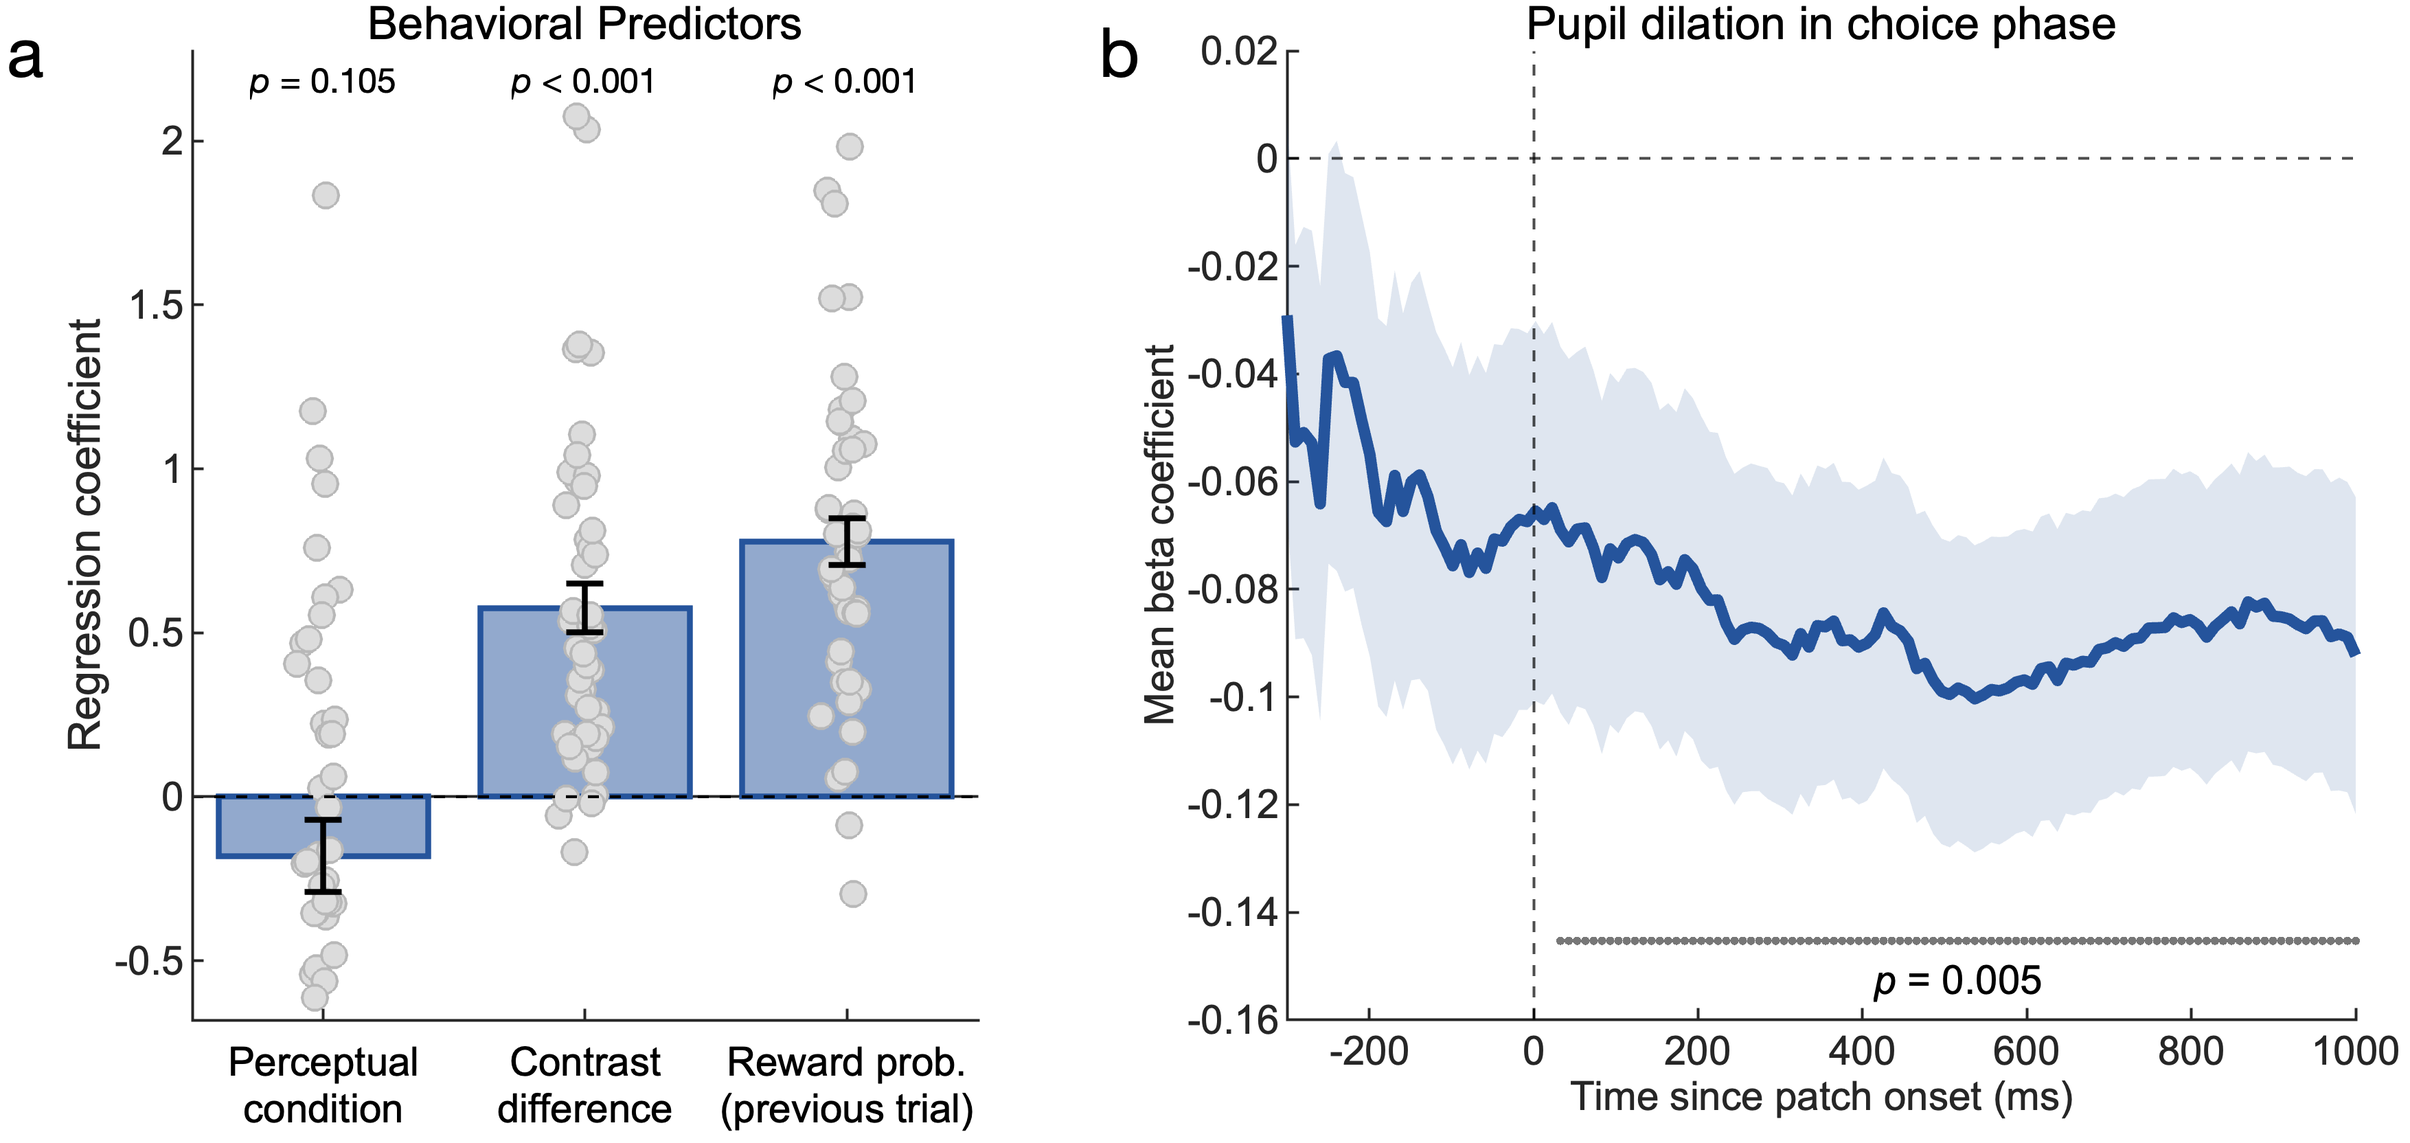
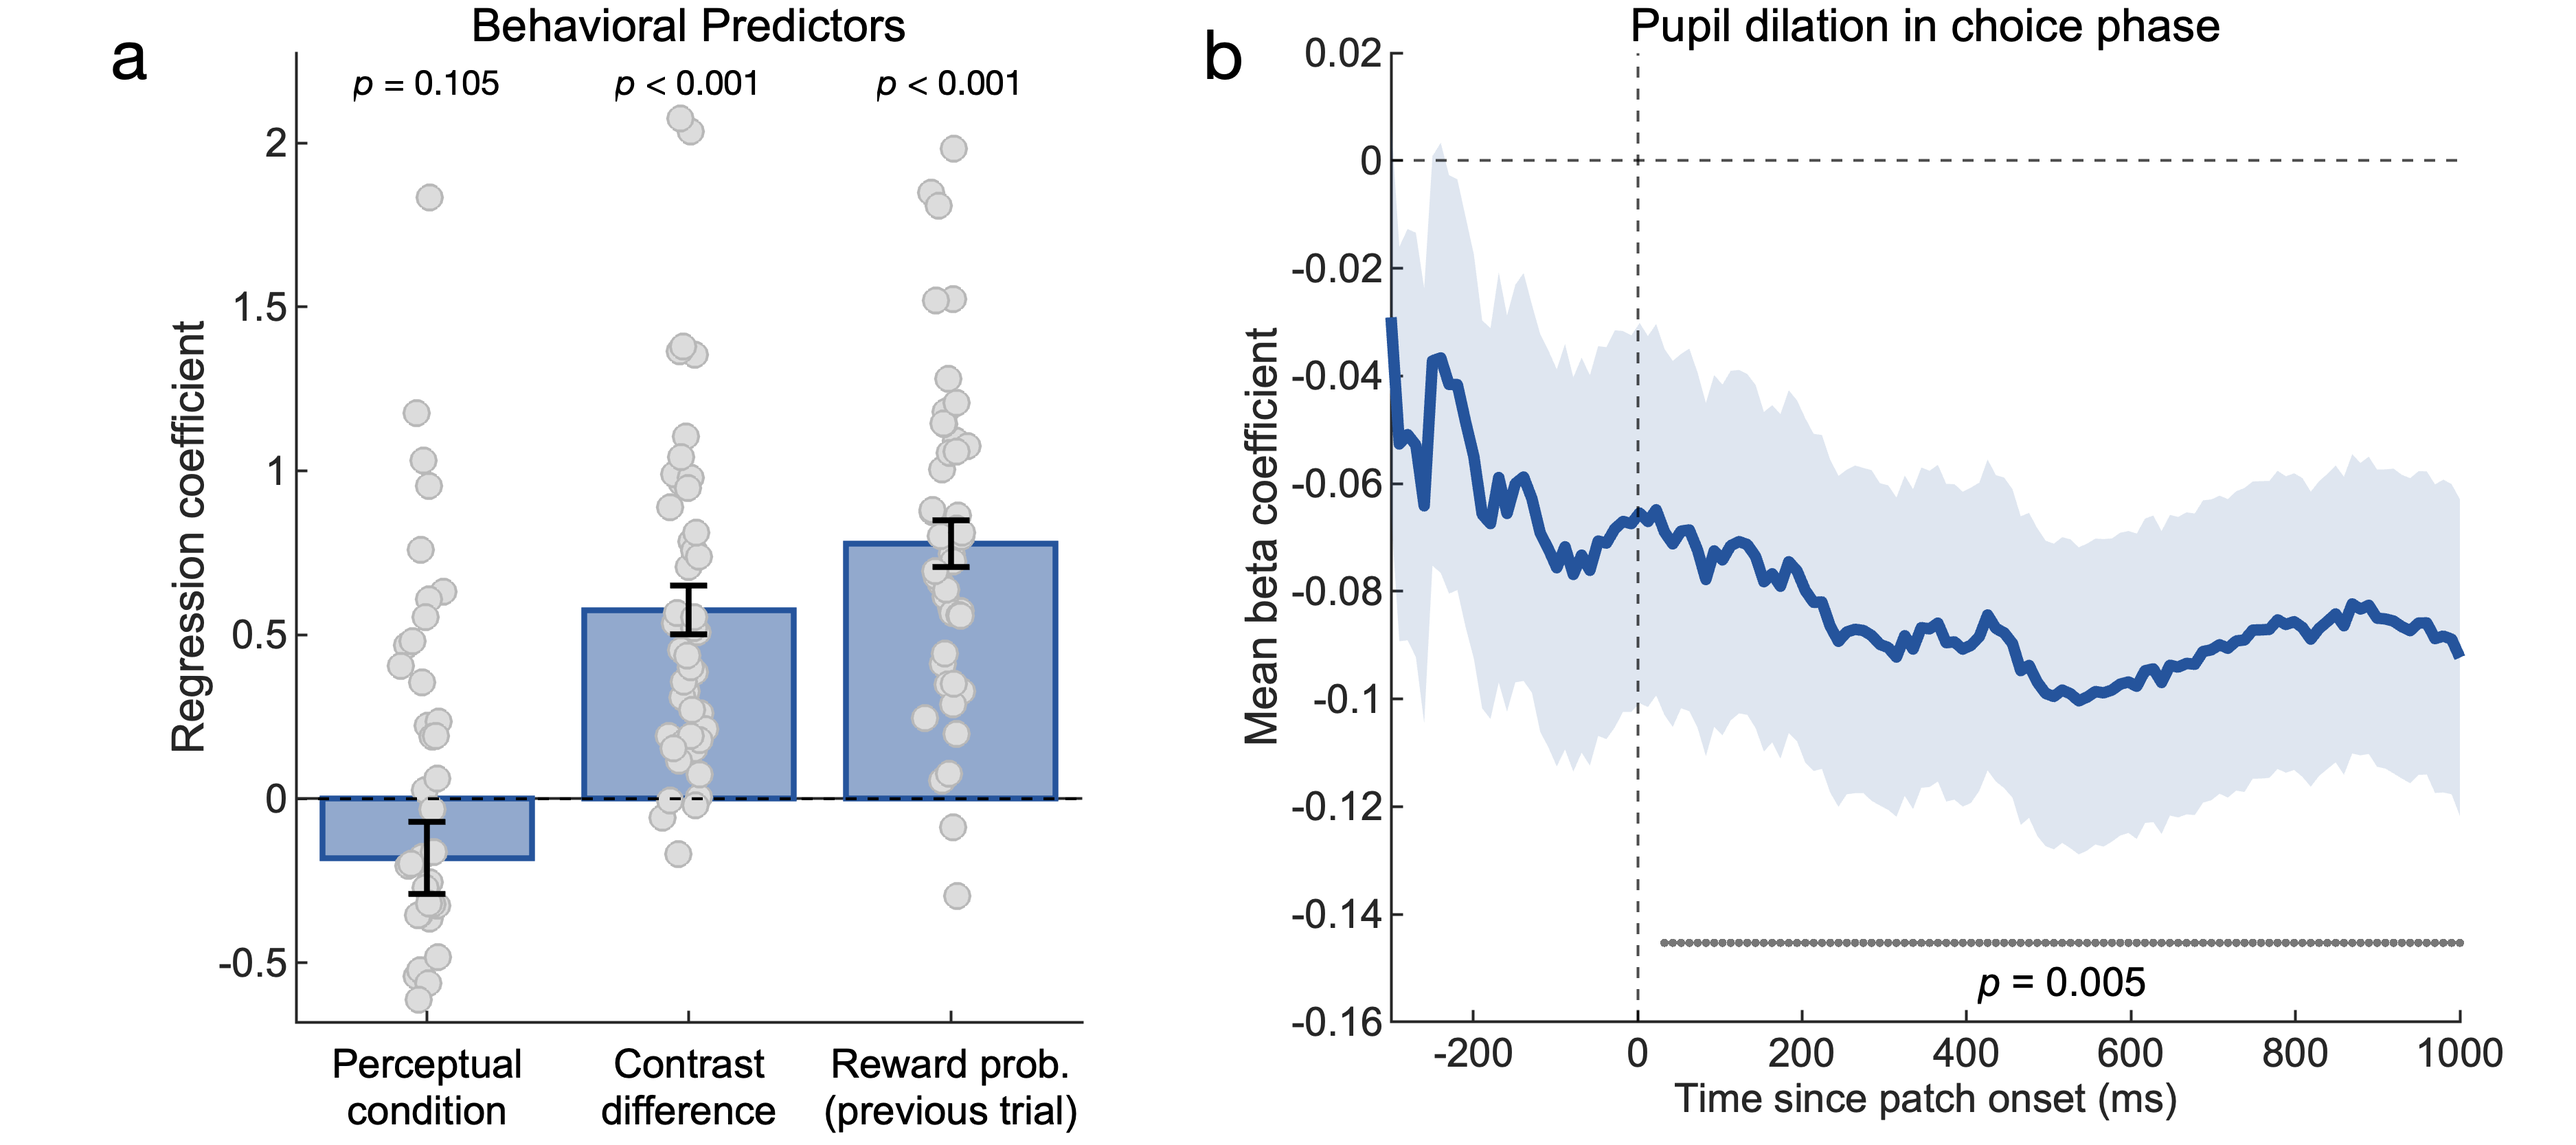
Minor updates to plotPatchResidual.m

diff --git a/pupil_analysis/residual analysis/plotPatchResidual.m b/pupil_analysis/residual analysis/plotPatchResidual.m
@@ -282,9 +282,7 @@ annotation('textbox', [label_x label_y .05 .05], 'String', 'b', ...
 % Do a ttest on PPC 
 ppcMean = mean(betas_ppc,2);
 [h,p] = ttest(ppcMean);
-if p == 0
-    p = 0.001; % for the sake of MS
-end
+p = 0.001; % for the sake of MS
 
 % Save figure
 fig = gcf; % use `fig = gcf` ("Get Current Figure") if want to print the currently displayed figure
